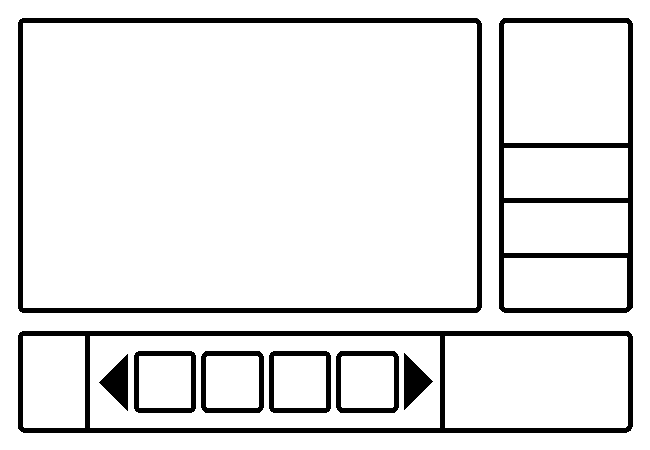
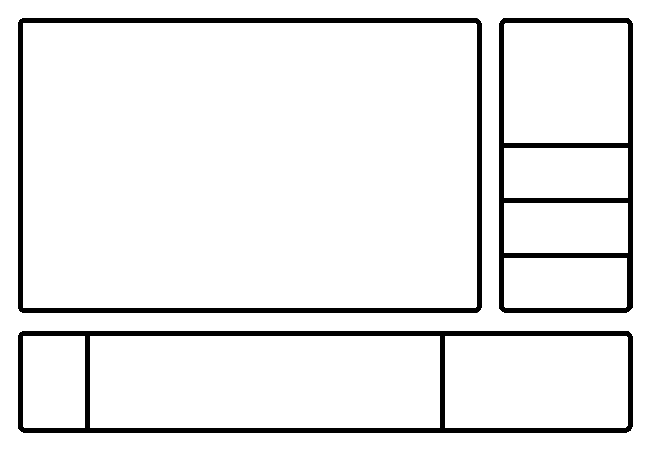
map 0.1

Changed region(s): [[0.1538, 0.7778, 0.6769, 0.9333]]

diff --git a/src/logics/worlds/World.java b/src/logics/worlds/World.java
@@ -232,6 +232,42 @@ public class World {
 			drawDebug(g, interpolation);
 		}
 	}
+	
+	public void drawMap(Graphics g) {
+		g.setColor(Color.BLACK);
+		g.fillRect(0, 0, 10000, 10000);
+		int size = 4;
+		int startX = 192 - (tileWorld[5].length/2*3) ;
+		//
+		System.out.println(192 - (tileWorld[5].length/2*3));
+		if(tileWorld.length > 45)
+			size = 3;
+		int drawX = 0;
+		int drawY = 0;
+		for(Tile[] row : tileWorld) {
+			drawX = 0;
+			drawY += size;
+			for(Tile tile : row) {
+				drawX += size;
+				if(tile!= null) {
+					switch (tile.getKey()) {
+					case '1':
+						g.setColor(Color.WHITE);
+						g.fillRect(drawX + startX, drawY, size, size);
+						break;
+
+					default:
+						break;
+					}
+					
+				}
+					
+				
+			}
+		}
+		g.setColor(Color.RED);
+		g.fillRect(player.getTileX()*size + size + startX, player.getTileY()*size + size, size, size);
+	}
 
 	public void drawTileIfNull(Graphics g, float interpolation, int x, int y) {
 

diff --git a/src/graphics/GameWorldPanel.java b/src/graphics/GameWorldPanel.java
@@ -52,8 +52,10 @@ public class GameWorldPanel extends Panel {
 		world.drawPlayerPreview(previewGraphics);
 
 		Graphics2D gameGraphics = (Graphics2D) g.create(gamePanel.x, gamePanel.y, gamePanel.width, gamePanel.height);
+		Graphics2D mapGraphics = (Graphics2D) g.create(337, 670, 384, 184);
 
 		world.draw(gameGraphics, interpolation, debugMode);
+		world.drawMap(mapGraphics);
 		inHandHandler.drawPreview(g, debugMode);
 		// world.drawPlayer(gameGraphics, interpolation);
 		for (int i = 0; i < tetroTypes.size(); i++) {
